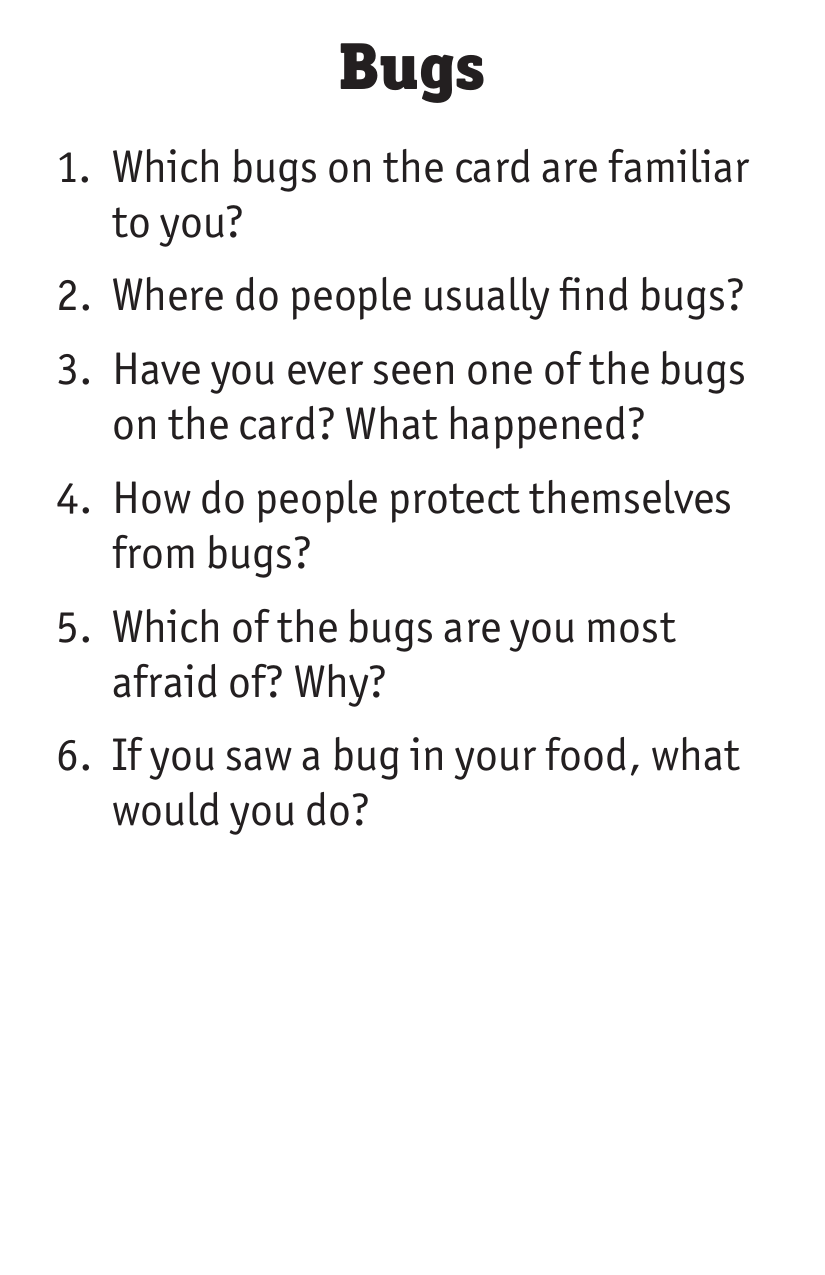
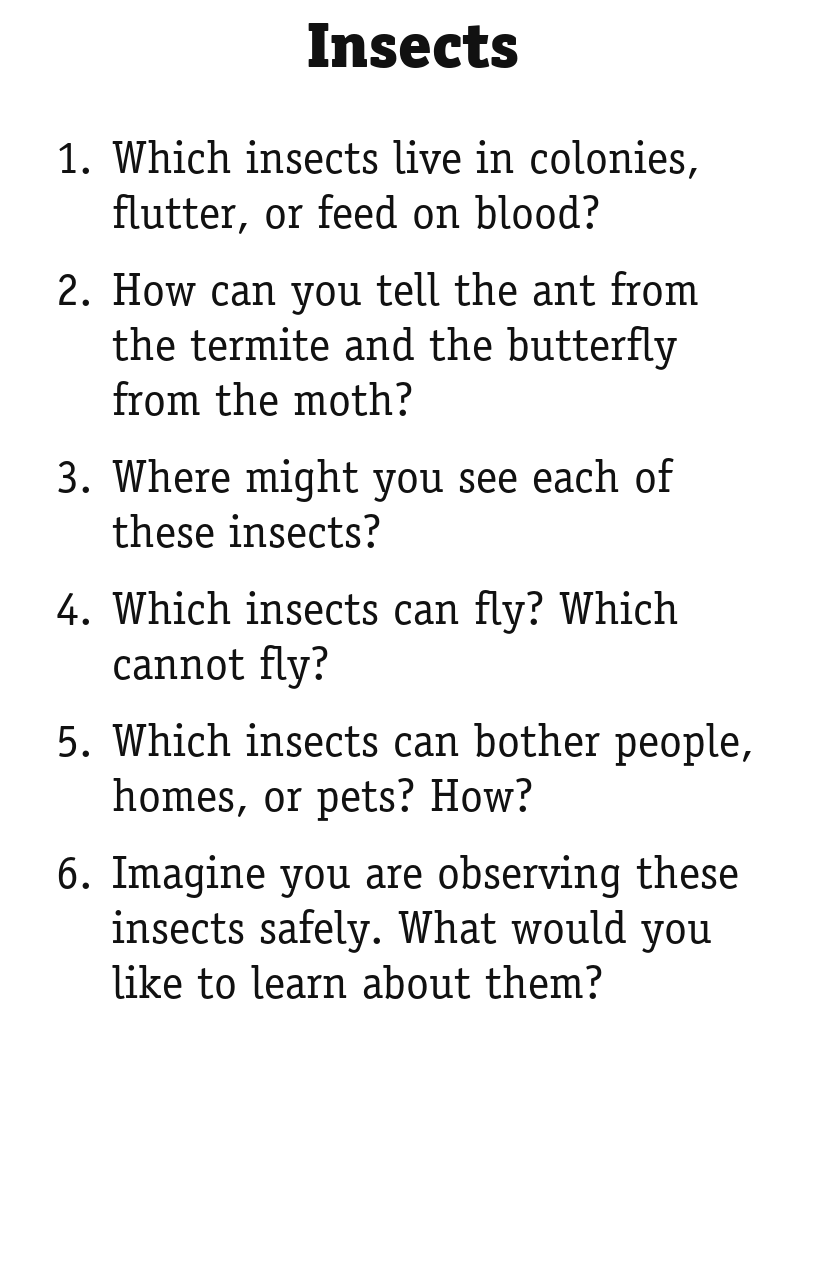
Rebuild Bugs as an exclusive Insects set

diff --git a/picture-this/game-data.js b/picture-this/game-data.js
@@ -90,11 +90,11 @@ window.PICTURE_THIS_GAME_DATA = {
   ],
   "bugs": [
     "Ant",
-    "Spider",
-    "Cockroach",
-    "Grasshopper",
-    "Worm",
-    "Mosquito"
+    "Termite",
+    "Butterfly",
+    "Moth",
+    "Mosquito",
+    "Flea"
   ],
   "tools": [
     "Pliers",
@@ -1406,6 +1406,42 @@ window.PICTURE_THIS_GAME_DATA = {
 window.PICTURE_THIS_GAME_META = {
   "schema_version": 1,
   "cards": {
+    "bugs": {
+      "title": "Insects",
+      "category_answers": ["Insects", "Bugs", "Common Insects", "Types of Insects"],
+      "tags": ["insects", "bugs", "animals", "nature"],
+      "items": [
+        {"id": "ant", "label": "Ant", "answers": ["Ant", "Garden Ant"]},
+        {"id": "termite", "label": "Termite", "answers": ["Termite", "Worker Termite"]},
+        {"id": "butterfly", "label": "Butterfly", "answers": ["Butterfly", "Monarch Butterfly"]},
+        {"id": "moth", "label": "Moth", "answers": ["Moth", "Brown Moth"]},
+        {"id": "mosquito", "label": "Mosquito", "answers": ["Mosquito", "Mosquito Insect"]},
+        {"id": "flea", "label": "Flea", "answers": ["Flea", "Common Flea"]}
+      ],
+      "links": [
+        {
+          "word": "colonies",
+          "answers": ["colonies", "colony", "social"],
+          "items": ["ant", "termite"],
+          "explanation": "The ant and termite are the only two insects shown that characteristically live in organized social colonies.",
+          "audit": "exclusive-among-six-v1"
+        },
+        {
+          "word": "flutter",
+          "answers": ["flutter", "fluttering"],
+          "items": ["butterfly", "moth"],
+          "explanation": "The butterfly and moth are the only two broad-winged insects shown that characteristically flutter from place to place.",
+          "audit": "exclusive-among-six-v1"
+        },
+        {
+          "word": "blood",
+          "answers": ["blood", "bloodsucking", "parasites"],
+          "items": ["mosquito", "flea"],
+          "explanation": "The mosquito and flea are the only two insects shown whose familiar bites feed on blood.",
+          "audit": "exclusive-among-six-v1"
+        }
+      ]
+    },
     "jobs": {
       "title": "Jobs",
       "category_answers": ["Jobs", "Occupations", "People at Work", "Careers"],

diff --git a/picture-this/question-data.js b/picture-this/question-data.js
@@ -487,45 +487,45 @@ window.PICTURE_THIS_QUESTION_DATA = {
   },
   "bugs": {
     "questions": [
-      "Which bugs on the card are familiar to you?",
-      "Where do people usually find bugs?",
-      "Have you ever seen one of the bugs on the card? What happened?",
-      "How do people protect themselves from bugs?",
-      "Which of the bugs are you most afraid of? Why?",
-      "If you saw a bug in your food, what would you do?"
+      "Which insects live in colonies, flutter, or feed on blood?",
+      "How can you tell the ant from the termite and the butterfly from the moth?",
+      "Where might you see each of these insects?",
+      "Which insects can fly? Which cannot fly?",
+      "Which insects can bother people, homes, or pets? How?",
+      "Imagine you are observing these insects safely. What would you like to learn about them?"
     ],
     "positions": [
-      13.14,
-      23.18,
-      28.98,
-      39.1,
-      49.22,
-      59.25
+      12.43,
+      22.75,
+      37.41,
+      47.76,
+      58.16,
+      68.47
     ],
     "endpoints": [
       {
-        "x": 30.18,
-        "y": 17.73
+        "x": 73.7,
+        "y": 16.78
       },
       {
-        "x": 90.91,
-        "y": 23.41
+        "x": 51.03,
+        "y": 31.25
       },
       {
-        "x": 78.91,
-        "y": 33.53
+        "x": 47.15,
+        "y": 41.65
       },
       {
-        "x": 38.42,
-        "y": 43.65
+        "x": 40.85,
+        "y": 52.31
       },
       {
-        "x": 47.52,
-        "y": 53.76
+        "x": 65.58,
+        "y": 62.71
       },
       {
-        "x": 45.45,
-        "y": 63.45
+        "x": 74.06,
+        "y": 77.02
       }
     ]
   },

diff --git a/picture-this/link-data.js b/picture-this/link-data.js
@@ -294,11 +294,7 @@ const auditedLinkAdditions = {
     pictureThisLink("odd", [1,3], "Triangle and star are the only two shapes shown with an odd number of points or corners."),
     pictureThisLink("roundlike", [2,5], "Circle and octagon are the only two shapes shown commonly used as progressively smoother wheel-like outlines.")
   ],
-  "bugs": [
-    pictureThisLink("noninsects", [1,4], "Spider and worm are the only two animals shown on this card that are not insects.", ["noninsect"]),
-    pictureThisLink("web", [1,5], "Spider and mosquito are the only two bugs shown that form a familiar web hunter and flying prey pair."),
-    pictureThisLink("burrowers", [0,4], "Ant and worm are the only two bugs shown especially known for tunneling through soil.")
-  ],
+  "bugs": [],
   "tools": [
     pictureThisLink("teeth", [0,2], "Pliers and saw are the only two tools shown with rows of functional metal teeth."),
     pictureThisLink("driving", [1,4], "Hammer and screwdriver are the only two tools shown made to drive the two standard pictured fastener types: nails and screws.")

diff --git a/picture-this/index.html b/picture-this/index.html
@@ -1637,7 +1637,7 @@
   },
   {
     "id": "bugs",
-    "title": "Bugs",
+    "title": "Insects",
     "front": "pages/page_023.png",
     "back": "pages/page_024.png"
   },
